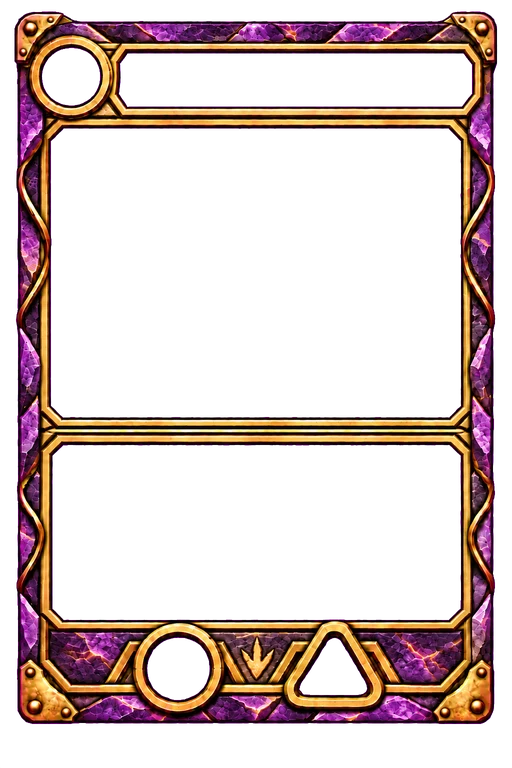
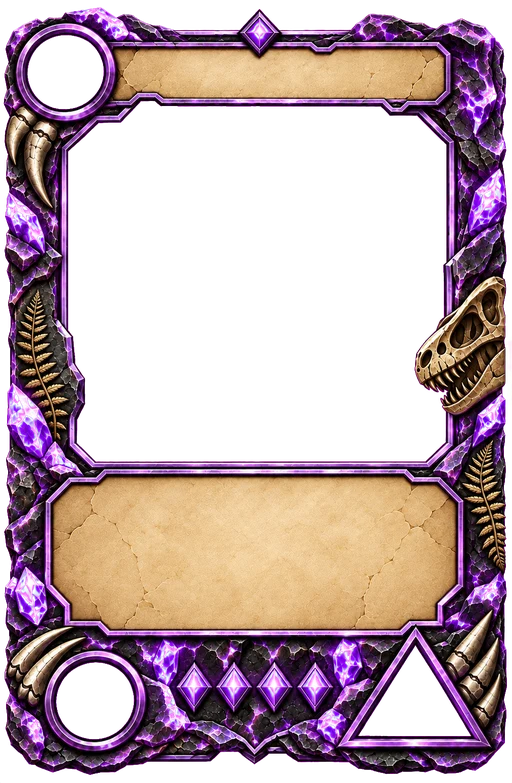
Las otras tres rarezas estrenan el marco nuevo, y la geometría se comparte
La legendaria lo estrenó ayer; hoy llegan la épica, la rara y la común con el
mismo dibujo y otro mineral —amatista, cristal azul y piedra—. El jefe se queda
con el marco viejo hasta que tenga el suyo, y con él se quedan las tres
familias de soporte.

La geometría la midió tools/marcos.py sobre los cuatro PNG y los cuatro caen
dentro de medio punto en todo menos en el centro del aro del coste: 0,78 puntos
entre la legendaria y la épica, que a 268 px son dos. Ése se escribe por
rareza; el resto lo comparte una clase nueva, `m-cria`, que claseMarco() emite
al lado de la de la rareza. Sin ella cada regla de carta.css pedía los cuatro
selectores y se leía peor que lo que describe.

La banda y la caja de los tres nuevos coinciden con las de la legendaria dentro
de un punto, así que el papel, la tinta oscura y los cuerpos de letra del visor
valen igual para los cuatro.

Lo que llegó mal y no se arregla desde el código: el banderín de rareza no
cuenta la rareza. La común trae un rombo de cuatro, que es lo correcto; la rara
y la épica traen los cuatro, como la legendaria. A 83 px la rareza la cuenta el
mineral y se distingue de un vistazo, así que se puede vivir con ello; queda
anotado por si se regeneran.

Sin migración ni despliegue: son tres WebP, CSS y una clase. VERSION a v148.
457 tests en verde.

Claude-Session: https://claude.ai/code/session_01Q85Z2YG2ZkA5G7j4CyGifz

diff --git a/carta.css b/carta.css
@@ -49,9 +49,10 @@
 
    La geometría NO la decide esta hoja: la decide el PNG. Se mide con
    `python tools/marcos.py` sobre los ficheros de verdad, nunca se estima, y los
-   números se copian aquí. Las cinco de dinosaurio —cuatro rarezas y el jefe—
-   coinciden entre sí dentro de cuatro décimas, así que basta un juego de
-   números para la familia; las tres de soporte comparten otro.
+   números se copian aquí. Los de aquí abajo son los del marco VIEJO, que hoy
+   usan el jefe y —con los suyos— las tres familias de soporte; las cuatro
+   rarezas de criatura estrenaron otro juego el 19-09-2026 y lo escriben más
+   abajo, en `.m-cria`.
 
    Una criatura reparte su cara en cinco huecos: el anillo del coste arriba a la
    izquierda, la BANDA del nombre a su derecha, la VENTANA de la ilustración, la
@@ -87,10 +88,14 @@
   box-shadow: none;
   border-radius: 5.4% / 3.9%;
 }
-/* ================================================== el marco LEGENDARIO
-   Desde el 18-09-2026 las criaturas legendarias llevan un marco propio, y no
-   el mismo dibujo con otro metal que las otras tres rarezas. Trae dentro lo
-   que hasta ahora eran piezas sueltas —el aro del coste, el círculo del
+/* ============================================ el marco de las CRIATURAS
+   Desde el 19-09-2026 las cuatro rarezas de criatura llevan este juego de
+   marcos —el legendario llegó un día antes y las otras tres detrás— y el jefe
+   se queda con el suyo de siempre, que es el dibujo viejo. La clase que las
+   junta es `m-cria`, que `claseMarco()` emite al lado de la de la rareza:
+   cuatro selectores por regla se leían peor que el CSS que describen.
+
+   Trae dentro lo que hasta ahora eran piezas sueltas —el aro del coste, el círculo del
    Ataque y el triángulo de la Vida—, con el interior hueco, así que sus tres
    chapas se apagan: dibujarlas encima sería ponerle un aro a un aro.
 
@@ -99,50 +104,58 @@
    o sea sobre el fondo de la carta, y siguen en claro. Es la única carta del
    juego con las dos tintas a la vez.
 
-   La geometría la midió `python tools/marcos.py` sobre el PNG, como manda la
-   regla de que la decide el dibujo y no el CSS. Lo único que no mide la
-   herramienta son la banda y la caja, porque en este marco no son magenta:
-   ésos se midieron sobre el papel.
+   La geometría la midió `python tools/marcos.py` sobre los cuatro PNG, como
+   manda la regla de que la decide el dibujo y no el CSS, y los cuatro caen
+   dentro de medio punto en todo menos en el centro del aro del coste, que por
+   eso se escribe por rareza. Lo único que no mide la herramienta son la banda
+   y la caja, porque en estos marcos no son magenta: ésas se midieron sobre el
+   papel, y también coinciden dentro de un punto.
 
-   Y la caja es más baja que la de las otras rarezas —20,9 % del alto contra
+   Y la caja es más baja que la del marco viejo —20,9 % del alto contra
    22,8 %— porque la ventana creció del 37,7 % al 45,9 %. Por eso el texto y el
    título bajan de cuerpo aquí y sólo aquí: con los de siempre, cuatro cartas
    del set se cortaban por abajo. */
-.carta.con-marco.m-dino_legendaria {
+.carta.con-marco.m-cria {
   --ban-x0: 24%;    --ban-x1: 13%;    --ban-y0: 6.4%;   --ban-al: 6.2%;
-  --ven-x0: 13.3%;  --ven-x1: 12.5%;  --ven-y0: 13%;    --ven-alto: 45.9%;
+  --ven-x0: 12.9%;  --ven-x1: 12.5%;  --ven-y0: 13%;    --ven-alto: 45.9%;
   --pla-x0: 13%;    --pla-x1: 13%;    --pla-y0: 60.5%;  --pla-y1: 18.6%;
-  --cos-cx: 12.11%; --cos-cy: 9.24%;
+  --cos-cy: 9.2%;
   /* El triángulo va por su centro de MASA (90,2 %) y no por el de su caja
      (88,3 %), por lo mismo que la chapa suelta: una cifra centrada en el
      rectángulo se ve flotando sobre la punta. */
-  --atq-x: 18.55%;  --atq-y: 89.45%;  --vid-x: 81.05%;  --vid-y: 90.2%;
+  --atq-x: 18.55%;  --atq-y: 89.5%;   --vid-x: 81.05%;  --vid-y: 90.2%;
 }
-.carta.con-marco.m-dino_legendaria .c-chapa { display: none; }
-.carta.con-marco.m-dino_legendaria .c-cuerpo { padding: 2% 4% 1.5%; }
+/* El aro del coste es lo único que el generador movió de una rareza a otra:
+   0,78 puntos entre la legendaria y la épica, que a 268 px son dos. */
+.carta.con-marco.m-dino_comun { --cos-cx: 12.7%; }
+.carta.con-marco.m-dino_rara { --cos-cx: 12.5%; }
+.carta.con-marco.m-dino_epica { --cos-cx: 12.89%; }
+.carta.con-marco.m-dino_legendaria { --cos-cx: 12.11%; }
+.carta.con-marco.m-cria .c-chapa { display: none; }
+.carta.con-marco.m-cria .c-cuerpo { padding: 2% 4% 1.5%; }
 /* Sobre papel: el nombre, el título y el texto. */
-.carta.con-marco.m-dino_legendaria .c-genero {
+.carta.con-marco.m-cria .c-genero {
   color: #38200c; text-shadow: 0 1px 0 rgba(255, 247, 225, .5);
 }
-.carta.con-marco.m-dino_legendaria .c-hab { color: #5d2d08; }
-.carta.con-marco.m-dino_legendaria .c-nombre { color: #38200c; }
-.carta.con-marco.m-dino_legendaria .c-texto { color: #2e2113; }
+.carta.con-marco.m-cria .c-hab { color: #5d2d08; }
+.carta.con-marco.m-cria .c-nombre { color: #38200c; }
+.carta.con-marco.m-cria .c-texto { color: #2e2113; }
 /* Sobre hueco: las tres cifras. Y los dos estados del Ataque, que en las otras
    rarezas los cuenta la chapa y aquí no hay chapa que cambiar: los cuenta el
    color de la cifra, como ya hace la Vida herida. */
-.carta.con-marco.m-dino_legendaria .c-coste,
-.carta.con-marco.m-dino_legendaria .st-a b,
-.carta.con-marco.m-dino_legendaria .st-v b { color: #ffe9b0; }
-.carta.con-marco.m-dino_legendaria .st-v.herido b { color: #f0a488; }
-.carta.con-marco.m-dino_legendaria .st-a.mejorado b { color: var(--bio); }
-.carta.con-marco.m-dino_legendaria .st-a.mermado b { color: var(--peligro); }
+.carta.con-marco.m-cria .c-coste,
+.carta.con-marco.m-cria .st-a b,
+.carta.con-marco.m-cria .st-v b { color: #ffe9b0; }
+.carta.con-marco.m-cria .st-v.herido b { color: #f0a488; }
+.carta.con-marco.m-cria .st-a.mejorado b { color: var(--bio); }
+.carta.con-marco.m-cria .st-a.mermado b { color: var(--peligro); }
 /* Los cuerpos del visor, que es donde el texto de la habilidad se pinta. */
-.carta--visor.con-marco.m-dino_legendaria .c-texto {
+.carta--visor.con-marco.m-cria .c-texto {
   font: 400 10.5px/12px 'Libre Baskerville', Georgia, serif;
 }
-.carta--visor.con-marco.m-dino_legendaria .c-texto.largo { font-size: 9.5px; line-height: 10.8px; }
-.carta--visor.con-marco.m-dino_legendaria .c-cuerpo { gap: 3px; }
-.carta--visor.con-marco.m-dino_legendaria .c-hab { line-height: 18px; }
+.carta--visor.con-marco.m-cria .c-texto.largo { font-size: 9.5px; line-height: 10.8px; }
+.carta--visor.con-marco.m-cria .c-cuerpo { gap: 3px; }
+.carta--visor.con-marco.m-cria .c-hab { line-height: 18px; }
 
 /* El especular ya viene pintado en el PNG; el de CSS encima lo emborronaba. */
 .carta.con-marco::before { background: none; }

diff --git a/test/entera.test.js b/test/entera.test.js
@@ -49,14 +49,29 @@ test('carta.css tiene la geometría de la carta entera y apaga el marco dibujado
   assert.match(css, /\.entera \.c-fondo\s*\{[^}]*blur/);
 });
 
-test('el marco legendario trae sus huecos dentro: sus chapas se apagan', () => {
-  assert.match(css, /\.carta\.con-marco\.m-dino_legendaria\s*\{[^}]*--ven-alto:\s*45\.9%/);
-  assert.match(css, /\.carta\.con-marco\.m-dino_legendaria \.c-chapa\s*\{\s*display:\s*none/);
+test('el marco de criatura trae sus huecos dentro: sus chapas se apagan', () => {
+  assert.match(css, /\.carta\.con-marco\.m-cria\s*\{[^}]*--ven-alto:\s*45\.9%/);
+  assert.match(css, /\.carta\.con-marco\.m-cria \.c-chapa\s*\{\s*display:\s*none/);
   // La banda y la caja son papel pintado: ahí la tinta va oscura, y las tres
   // cifras, que caen sobre hueco, se quedan en claro.
-  assert.match(css, /\.carta\.con-marco\.m-dino_legendaria \.c-hab\s*\{\s*color:\s*#5d2d08/);
-  assert.match(css, /\.carta\.con-marco\.m-dino_legendaria \.st-a b[^{]*\{\s*color:\s*#ffe9b0/);
+  assert.match(css, /\.carta\.con-marco\.m-cria \.c-hab\s*\{\s*color:\s*#5d2d08/);
+  assert.match(css, /\.carta\.con-marco\.m-cria \.st-a b[^{]*\{\s*color:\s*#ffe9b0/);
   // Sin chapa que cambiar, los dos estados del Ataque los cuenta el color.
-  assert.match(css, /\.carta\.con-marco\.m-dino_legendaria \.st-a\.mejorado b\s*\{\s*color:/);
-  assert.match(css, /\.carta\.con-marco\.m-dino_legendaria \.st-a\.mermado b\s*\{\s*color:/);
+  assert.match(css, /\.carta\.con-marco\.m-cria \.st-a\.mejorado b\s*\{\s*color:/);
+  assert.match(css, /\.carta\.con-marco\.m-cria \.st-a\.mermado b\s*\{\s*color:/);
+});
+
+test('las CUATRO rarezas de criatura llevan el marco nuevo, y el jefe no', () => {
+  for (const [id, clase] of [['stegosaurus', 'm-dino_comun'], ['allosaurus', 'm-dino_rara'],
+    ['torvosaurus', 'm-dino_epica'], ['tyrannosaurus', 'm-dino_legendaria']]) {
+    const html = cartaHTML(id, { variante: 'col' });
+    assert.ok(html.includes(clase), id);
+    assert.ok(html.includes('m-cria'), `${id} sin la clase que comparte la geometría`);
+  }
+  assert.ok(!cartaHTML('jefe_saurophaganax', { variante: 'col' }).includes('m-cria'));
+  assert.ok(!cartaHTML('trampa', { variante: 'col' }).includes('m-cria'), 'las de soporte tampoco');
+  // El aro del coste es lo único que cambia de una rareza a otra.
+  for (const r of ['comun', 'rara', 'epica', 'legendaria']) {
+    assert.match(css, new RegExp(`\\.carta\\.con-marco\\.m-dino_${r}\\s*\\{\\s*--cos-cx:`), r);
+  }
 });

diff --git a/src/ui/render.js b/src/ui/render.js
@@ -307,7 +307,10 @@ export const FAMILIA_MARCO = Object.freeze({
 function claseMarco(cardId) {
   const c = carta(cardId);
   if (CARTAS_DE_JEFE[cardId]) return ' m-dino_jefe jefe';
-  if (c.tipo === TIPO.DINOSAURIO) return ` m-dino_${RAREZA_MARCO[c.rareza] ?? 'comun'}`;
+  // Las cuatro rarezas de criatura llevan además `m-cria`: el juego de marcos
+  // del 19-09-2026 comparte geometría entre ellas y no con el del jefe, y sin
+  // una clase común cada regla de carta.css pediría los cuatro selectores.
+  if (c.tipo === TIPO.DINOSAURIO) return ` m-dino_${RAREZA_MARCO[c.rareza] ?? 'comun'} m-cria`;
   return ` m-${FAMILIA_MARCO[c.tipo] ?? 'evento'}`;
 }
 

diff --git a/sw.js b/sw.js
@@ -17,7 +17,7 @@
 //
 // Al cambiar cualquier fichero servido hay que subir VERSION: activa la limpieza
 // de las cachés anteriores.
-const VERSION = 'dinowar-v147';
+const VERSION = 'dinowar-v148';
 const ESENCIALES = [
   './', './index.html', './style.css', './piel.css', './carta.css', './efectos.css', './manifest.json', './src/main.js',
   // Lo primero que se ve. La marca y la pantalla de carga tienen que estar

diff --git a/CLAUDE.md b/CLAUDE.md
@@ -1416,9 +1416,9 @@ que el resto de gestos.
 ## Los marcos de carta: la geometría la decide el PNG
 
 Ocho marcos en `assets/marcos/`: cinco de criatura —cuatro rarezas y el jefe— y
-uno por familia de soporte, sin rareza. Cuatro de los cinco de criatura comparten
-geometría y sólo cambian de material; **el legendario estrenó la suya el
-18-09-2026** y tiene su sección aquí abajo.
+uno por familia de soporte, sin rareza. **Las cuatro rarezas de criatura
+estrenaron un juego nuevo el 18 y el 19-09-2026** y tienen su sección aquí
+abajo; el jefe y las tres de soporte siguen con el dibujo viejo.
 Los originales son PNG de 1024×1536 con los huecos en magenta `#FF00FF`, fuera
 del repositorio; `python tools/marcos.py escribir` los keyea a WebP y **mide
 los huecos**, y esos números son los que van en `carta.css`. No se estiman.
@@ -1443,12 +1443,14 @@ rarezas con ese PNG como referencia y el material como único cambio.
 `test/marcos.test.js` vigila que cada clase que emite `claseMarco()` tenga
 fichero y que ningún WebP sobre.
 
-### El marco legendario: las legendarias estrenan el suyo
+### El marco de las criaturas: las cuatro rarezas estrenan el suyo
 
 Hasta el 18-09-2026 los cinco marcos de criatura eran el MISMO dibujo con otro
-material. Ese día las legendarias estrenaron uno propio, encargado al generador
-en tres vueltas con el autor delante, y con él pasan tres cosas que ningún otro
-marco del juego hace:
+material. Ese día la legendaria estrenó uno propio —tres vueltas con el
+generador y el autor delante— y al siguiente llegaron la épica, la rara y la
+común con la misma geometría y otro mineral. El jefe se quedó con el dibujo
+viejo hasta que tenga el suyo. Con el juego nuevo pasan tres cosas que ningún
+otro marco del juego hace:
 
 - **Trae los huecos de las cifras dentro.** El aro del coste, el círculo del
   Ataque y el triángulo de la Vida van dibujados en el PNG, con el interior
@@ -1465,9 +1467,14 @@ marco del juego hace:
   las 144, no se corta ninguna línea. Si algún día se quiere el texto al cuerpo
   de siempre, la que tiene que ceder dos puntos es la ventana.
 
-La geometría la midió `python tools/marcos.py` sobre el PNG, como manda la
-regla; lo único que no mide son la banda y la caja, porque en este marco no son
-magenta. Ésas se midieron sobre el papel.
+La geometría la midió `python tools/marcos.py` sobre los cuatro PNG, como manda
+la regla; lo único que no mide son la banda y la caja, porque en estos marcos no
+son magenta. Ésas se midieron sobre el papel y coinciden dentro de un punto.
+**Los cuatro caen dentro de medio punto en todo menos en el centro del aro del
+coste** —0,78 puntos entre la legendaria y la épica, que a 268 px son dos—, así
+que ése se escribe por rareza y el resto lo comparte `m-cria`, una clase que
+`claseMarco()` emite al lado de la de la rareza. Sin ella cada regla de
+`carta.css` pedía los cuatro selectores y se leía peor que lo que describe.
 
 Lo que costó, por si vuelve a encargarse uno:
 
@@ -1488,9 +1495,16 @@ Lo que costó, por si vuelve a encargarse uno:
   menor medida (9,8 %); se acaba pidiéndolos a **1148×1568**, que es 82:112
   exacto.
 
-Quedan los otros siete en este estilo —las tres rarezas, el jefe y las tres
-familias de soporte—, con esta misma geometría y el material como único cambio;
-las de soporte, sin banda y sin los dos huecos de cifras.
+Y una cosa que llegó mal en tres de los cuatro y no se arregla desde el código:
+**el banderín de rareza no cuenta la rareza.** La común trae un rombo encendido
+de cuatro, que es lo correcto; la rara y la épica traen los cuatro, igual que la
+legendaria. Se puede vivir con ello —a 83 px la rareza la cuenta el MINERAL, que
+es piedra, cristal azul, amatista y lava, y se distinguen de un vistazo— pero si
+se regeneran, que la rara traiga dos y la épica tres.
+
+Quedan cuatro en este estilo: el jefe y las tres familias de soporte, con esta
+misma geometría y el material como único cambio; las de soporte, sin banda y sin
+los dos huecos de cifras.
 
 ### La carta ENTERA: las cinco de jefe van a sangre
 
@@ -1503,7 +1517,8 @@ de cristal translúcido apoyada en las chapas. Es la variante «full art» de
 cualquier TCG.
 
 **Las criaturas LEGENDARIAS lo fueron el mismo día y dejaron de serlo**, al
-estrenar marco propio: las dos cosas se pelean por la misma carta —una la
+estrenar marco propio —y al día siguiente lo estrenaron las otras tres
+rarezas—: las dos cosas se pelean por la misma carta —una la
 enmarca y la otra le quita el marco— y ganó el marco, porque la rareza se lee y
 las cifras tienen dónde apoyarse. Las de jefe se quedan a sangre porque viven
 fuera del set y no tienen rareza que enseñar. `test/entera.test.js` guarda esa
@@ -1553,7 +1568,8 @@ Lo que se miró al lado de Crown War y NO se copió: su estilo pintado tipo
 anime —el fotorrealismo es lo que nos distingue—, su tipografía sin sistema, y
 que la rareza no se lea en la carta. La ventana grande para TODAS las cartas
 —que era lo que quedaba de aquello— se empezó por el marco legendario de aquí
-arriba; faltan los otros siete.
+arriba; hoy lo llevan las cuatro rarezas de criatura y faltan el jefe y las
+tres familias de soporte.
 
 Y una cosa que se midió antes de descartarla: **llevar la carta entera a todo
 el set no funciona.** Las criaturas ganan en el visor, sí, pero a 83 px el
